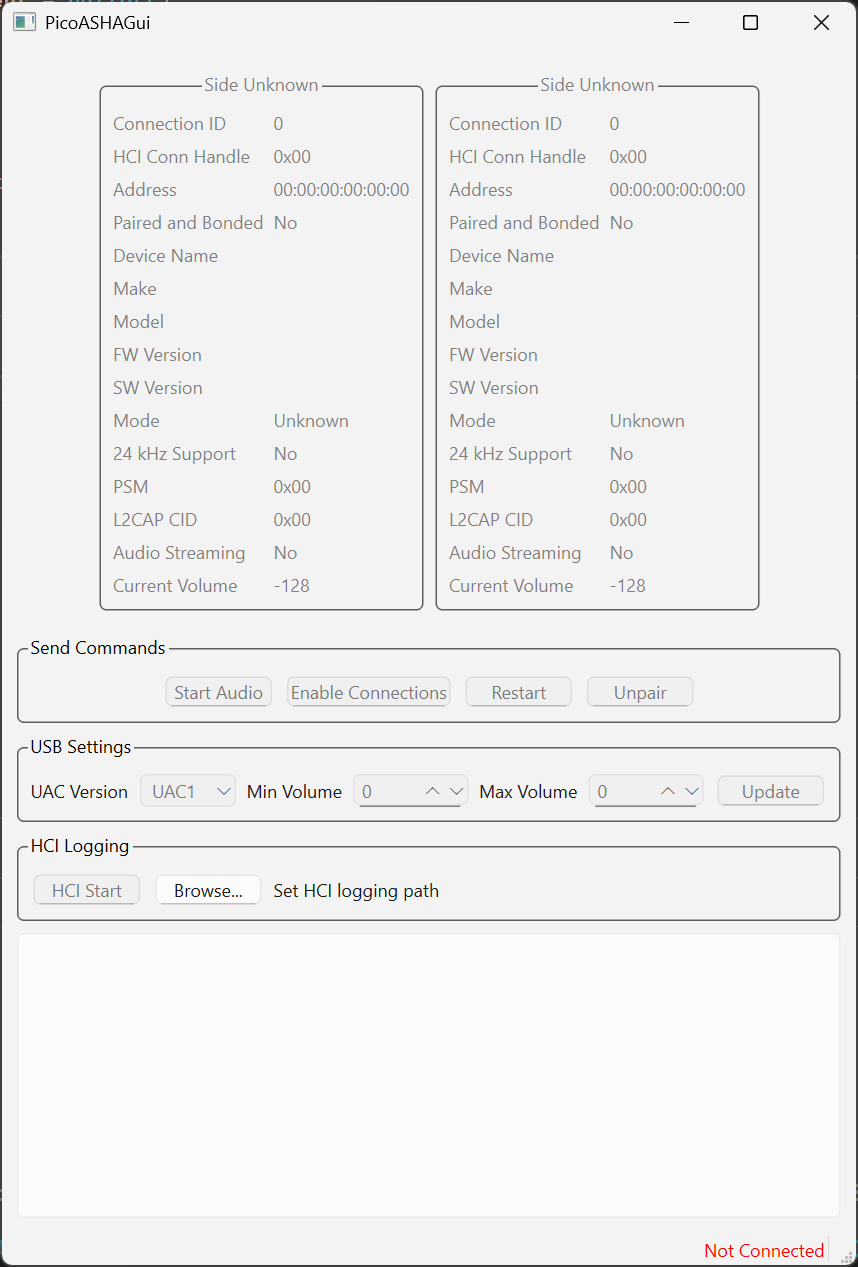
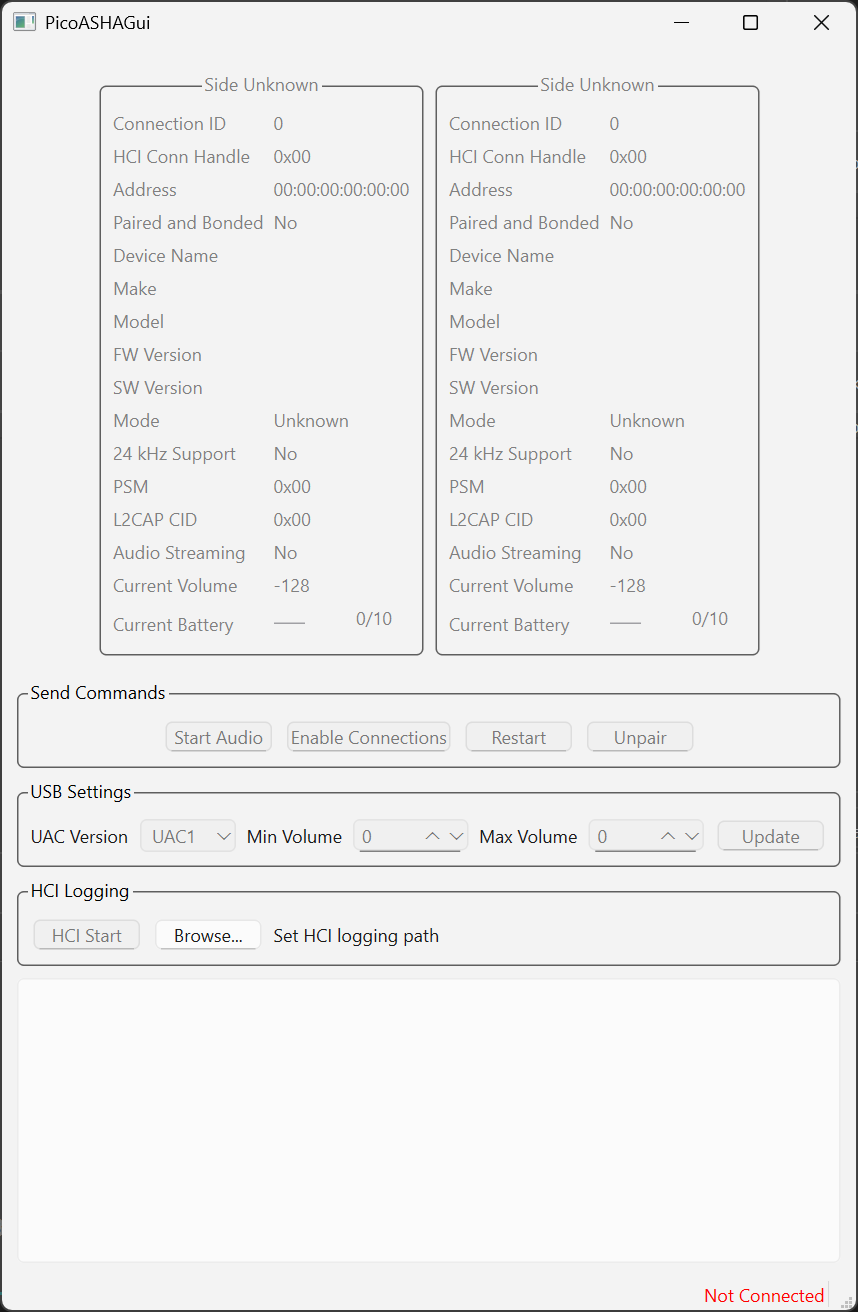
Update website for battery level

diff --git a/website/docs/guide.md b/website/docs/guide.md
@@ -114,7 +114,7 @@ When connected to Pico ASHA which is connected to hearing devices, the GUI looks
 ### Top section
 
 The top section shows some details about the connected hearing devices such as address, name, make, model 
-etc. It also shows the current streaming volume.
+etc. It also shows the current streaming volume as well as the battery level (out of 10).
 
 This section is purely informational.
 
